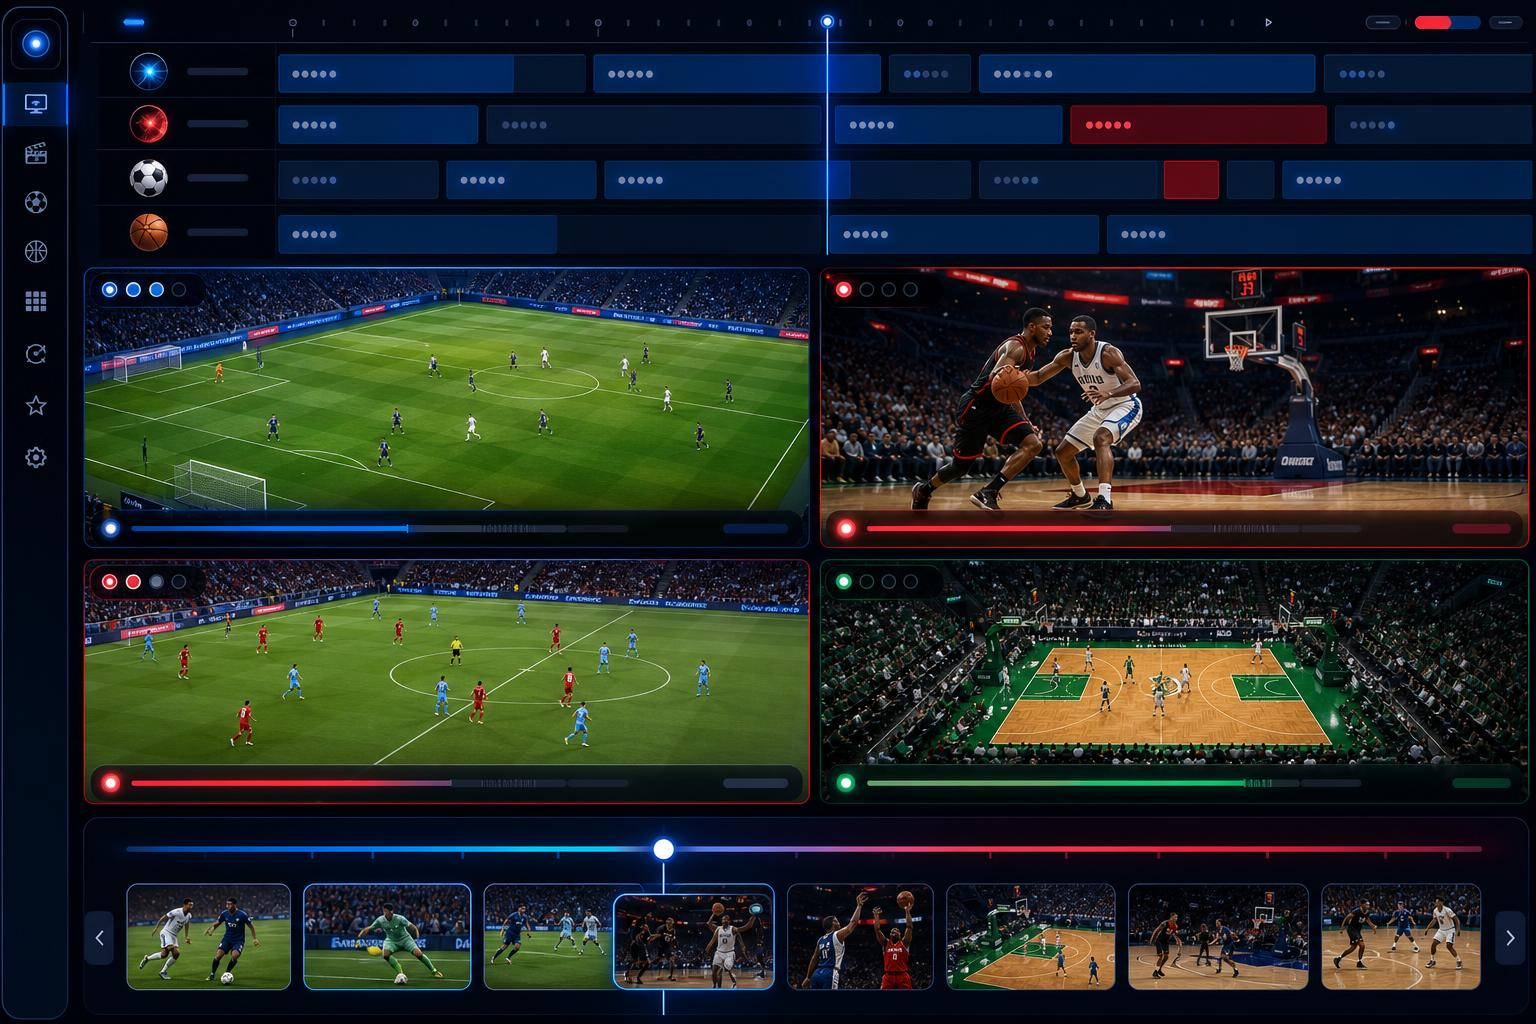
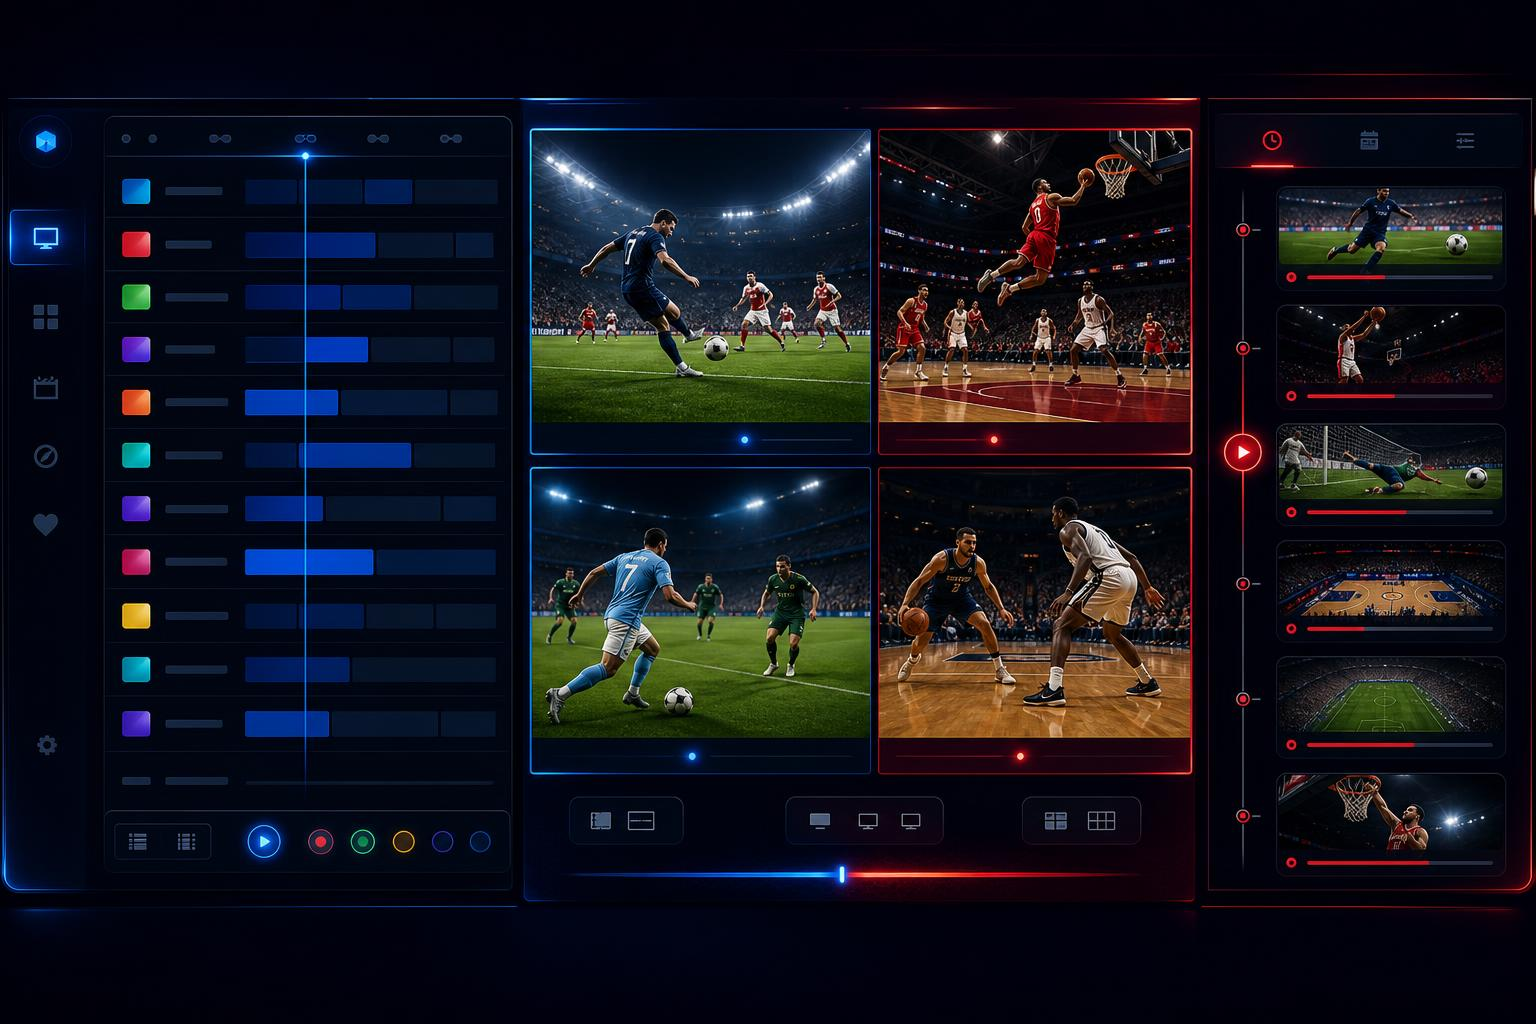
Changes

diff --git a/.lovable/plan.md b/.lovable/plan.md
@@ -1,23 +1,28 @@
-## Fix the "Features" section image on desktop
+## Fix the "Features" image — make it an ultra-wide banner so nothing gets cropped
 
 ### Problem
-On desktop the `iptv-features-player.jpg` shows a TV-in-a-room composition. With the section image rendered full-width and capped at `max-h-72`, the TV ends up centered with large empty white/gray wall areas on the left and right — it looks broken and wastes space.
+The new image is full-bleed UI, but at desktop width with `max-h-72` (288px) and `object-cover`, the top EPG bar and bottom catch-up timeline get cropped — only the middle multi-view band is visible. Removing the cap would make the image too tall (a 16:9 image at full container width is ~720px tall, dominating the screen).
 
 ### Fix
-Regenerate `src/assets/iptv-features-player.jpg` as an **edge-to-edge Smart TV / IPTV player UI** that fills the entire 16:9 frame — no room, no TV bezel, no walls. Just the on-screen interface itself, so it looks clean at every width.
+Regenerate `src/assets/iptv-features-player.jpg` at an **ultra-wide banner aspect** (1920×576, ~10:3) so the entire UI fits in a short horizontal strip. Then we can drop the height cap and use `h-auto` — the image displays in full at a naturally compact height (~377px on desktop, proportional on mobile) with nothing cropped.
 
-New prompt direction:
-- Full-bleed Smart TV streaming app UI, edge-to-edge, no device bezel, no surrounding room
-- Dark premium UI with EPG timeline at top, multi-view 4-stream split panel, catch-up timeline strip at bottom
-- Sport thumbnails as content tiles
-- Blue and red accent glows matching the site's primary color
-- 1280×736, premium model (cleaner, fewer text artifacts)
-- No real text labels, no fake logos, no garbled writing
+New image composition (ultra-wide, full-bleed, no TV bezel/room):
+- Left third: EPG channel guide column with timeline rows
+- Middle third: 4-stream multi-view sport split (already great in current render)
+- Right third: catch-up timeline scrubber strip with content tile thumbnails
+- Dark navy background, blue + red accent glows
+- Premium model, no readable text / fake logos
+
+### Code change
+Update only the image's class + dimension attrs in `src/routes/index.tsx`:
+- width: 1920, height: 576 (no CLS)
+- className: `mb-8 w-full h-auto rounded-xl` (drop `object-cover max-h-56 md:max-h-72`)
+- Keep alt, lazy loading, decoding async
 
 ### What stays
-- Same file path → no code changes needed
-- Same alt, dimensions, lazy loading, mobile/desktop classes in `src/routes/index.tsx`
-- All SEO unchanged
+- Same import path
+- Same German alt text with "IPTV Anbieter" keyword → SEO unchanged
+- No layout/section/copy changes elsewhere
 
 ### Out of scope
-No code edits, no other images, no layout changes.
+No other images, no other sections.
